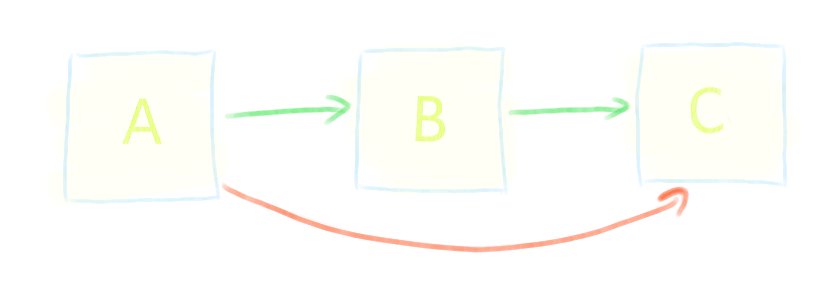
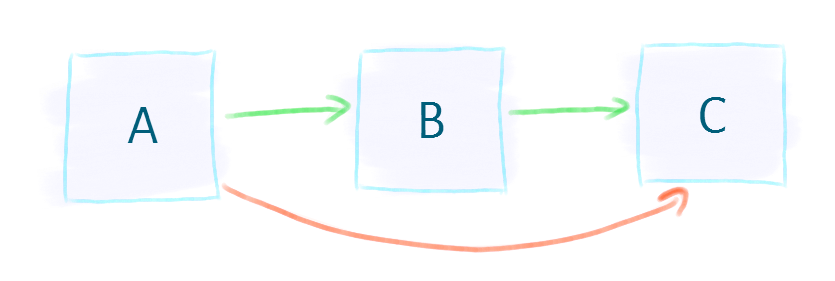
lighter slides

diff --git a/index.html b/index.html
@@ -12,8 +12,6 @@
 <header class="caption">
     <h1>From Maven to Gradle with Docker in a multi-product pipeline</h1>
 
-    <h2><del>Shipping</del> Continuous Deployment made easy</h2>
-
     <p>by <a target="_blank" href="http://www.gesellix.net/">Tobias Gesellchen</a>
         @ <a target="_blank" href="http://www.hypoport.de/">Hypoport AG</a>
     </p>
@@ -21,7 +19,6 @@
 <section class="slide cover" id="cover">
     <div>
         <h2 class="text-shadow">From Maven to Gradle with Docker in a multi-product pipeline</h2>
-        <h3 class="text-shadow"><del>Shipping</del> Continuous Deployment made easy</h3>
 
         <p class="text-shadow"><a target="_blank" href="http://www.gesellix.net/">by Tobias Gesellchen</a></p>
         <!-- 5OctZbi8TOKC4NmbmeOH_Caroline%20Gutman-4677.jpg from https://s3.amazonaws.com/ooomf-com-files/5OctZbi8TOKC4NmbmeOH_Caroline%20Gutman-4677.jpg (http://unsplash.com/) -->
@@ -34,39 +31,36 @@
         </div>
         <style>
             #cover img {
-                opacity: 0.2;
+                opacity: 0.4;
+            }
+
+            #cover {
+                color: #000;
+                text-align: center;
             }
 
             #cover h2 {
-                color: #FFF;
-                text-align: center;
                 font-size: 70px;
                 font-weight: bold;
             }
 
             #cover h3 {
-                color: #FFF;
-                text-align: center;
                 font-size: 25px;
             }
 
             #cover p {
                 margin: 10px 0 0;
-                text-align: center;
-                color: #FFF;
                 font-style: italic;
                 font-size: 20px;
             }
 
             #cover p {
-                color: #FFF;
                 position: absolute;
                 bottom: 10px;
                 right: 10px;
             }
 
             #cover p a {
-                color: #FFF;
                 text-decoration: none;
             }
 

diff --git a/shower/themes/gesellix/styles/screen.css b/shower/themes/gesellix/styles/screen.css
@@ -134,8 +134,8 @@ a {
     position: relative;
     width: 1024px;
     height: 640px;
-    background: #000;
-    color: #FFF;
+    background: #e3e5e7;
+    color: #000;
     -webkit-print-color-adjust: exact;
     -webkit-text-size-adjust: none;
     -moz-text-size-adjust: none;
@@ -350,7 +350,7 @@ a {
 }
 
 .slide.cover {
-    background: #000
+    background: #fff
 }
 
 .slide.cover img, .slide.cover svg, .slide.cover video, .slide.cover object, .slide.cover canvas, .slide.cover iframe {
@@ -604,7 +604,7 @@ a {
         margin: -320px 0 0 -512px;
         width: 1024px;
         height: 640px;
-        background: #000
+        background: #e3e5e7;
     }
 
     .full.debug:after {
@@ -708,7 +708,7 @@ p.text-shadow {
 
 .link-github {
     display: inline-block;
-    background-image: url('../images/github/PNG/GitHub-Mark-Light-32px.png');
+    background-image: url('../images/github/PNG/GitHub-Mark-32px.png');
     background-repeat: no-repeat;
     background-position: left;
     padding-left: 35px;
